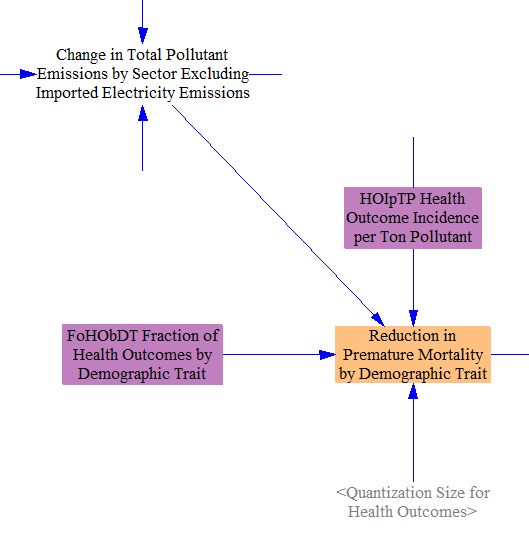
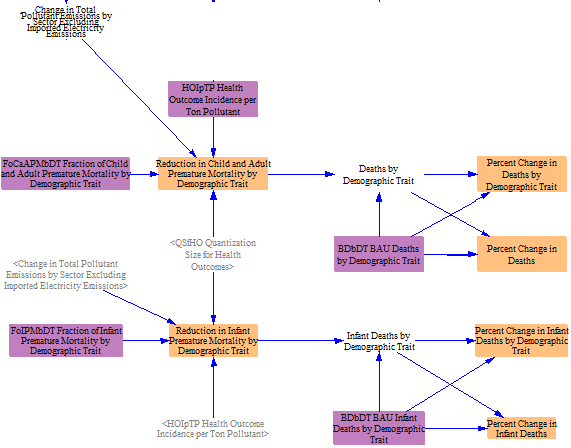
Additional outputs section 4.0.5 update

Changed region(s): [[0.0, 0.0, 1.0, 1.0], [0.5747, 0.8125, 0.9981, 1.0], [0.5747, 0.4375, 0.6049, 0.4688]]

diff --git a/docs/additional-outputs.md b/docs/additional-outputs.md
@@ -46,11 +46,11 @@ In some cases, it is useful to be able to see public health benefits in currency
 
 Additionally, the EPS provides an estimated demographic breakdown of premature mortality incidents, where input data are available.  We take in input data from `FoHObDT Fraction of Health Outcomes by Demographic Trait` and multiply by the number of avoided premature deaths to allocate them to specific demographic traits.  For the U.S. model, the relevant traits are sex, race, and Hispanic or Latino status.  The main complexity of this process occurs not within Vensium but within the Excel file for variable `FoHObDT Fraction of Health Outcomes by Demographic Trait` (which draws from results from air quality and public health models).  The sources and methods are carefully documented and explained within that file - simply [download the model](download) and review the file for more details.
 
+The demographic breakdown is further split into infant premature mortality and child-and-adult premature mortality. Infant mortality is calculated using a separate `FoIPMbDT Fraction of Infant Premature Mortality by Demographic Trait` lookup that maps total avoided infant deaths to specific demographic traits, and child-and-adult mortality is similarly mapped via `FoCaAPMbDT`. This split lets users compare relative outcomes for infants versus the broader child-and-adult population within each demographic group.
+
 ![avoided premature mortality by demographic trait](/img/additional-outputs-AvoidedDeathsDemographics.png)
 
-So that we can display demographic mortality results as percentage changes (which is helpful for making comparisons between demographic groups), we calculate the number of deaths by demographic trait (in the policy case) by subtracting avoided deaths from BAU deaths, and we compare policy case deaths to BAU deaths by demographic trait to find percent changes.
-
-![percent change in deaths](/img/additional-outputs-PercCngDeaths.png)
+So that we can display demographic mortality results as percentage changes (which is helpful for making comparisons between demographic groups), we calculate the number of deaths by demographic trait (in the policy case) by subtracting avoided deaths from BAU deaths, and we compare policy case deaths to BAU deaths by demographic trait to find percent changes. Both child-and-adult and infant premature mortality percent changes are calculated.
 
 ## Avoided Climate Damages
 
@@ -92,9 +92,13 @@ We also calculate the change in net electricity imports, which is used in one ou
 
 ![change in net electricity imports](/img/additional-outputs-CngNetElecImports.png)
 
-Finally, we calculate the change in battery storage capacity relative to the BAU, which is used in one output graph.
+Finally, we calculate the change in battery storage capacity relative to the BAU, which is used in one output graph. Battery storage tracking is split between standalone grid batteries (excluding hybrid) and hybrid grid battery storage, with both quantities reported in MW and MWh.
 
 ![change in battery storage capacity](/img/additional-outputs-BatteryCapacity.png)
 
+Lastly, we calculate per-household energy-expenditure outputs in this section, including the change in average household building energy expenditures and the change in average household transportation energy expenditures. These are computed by dividing the relevant entity-level change in energy expenditures (e.g., the consumer share) by the number of households (read in as input data), giving a per-household figure that is useful for comparing policy effects on average household energy bills.
+
+![change household energy expenditures](/img/additional-outputs-householdexpenditures.png)
+
 ---
-*This page was last updated in version 4.0.4.*
+*This page was last updated in version 4.0.5.*
